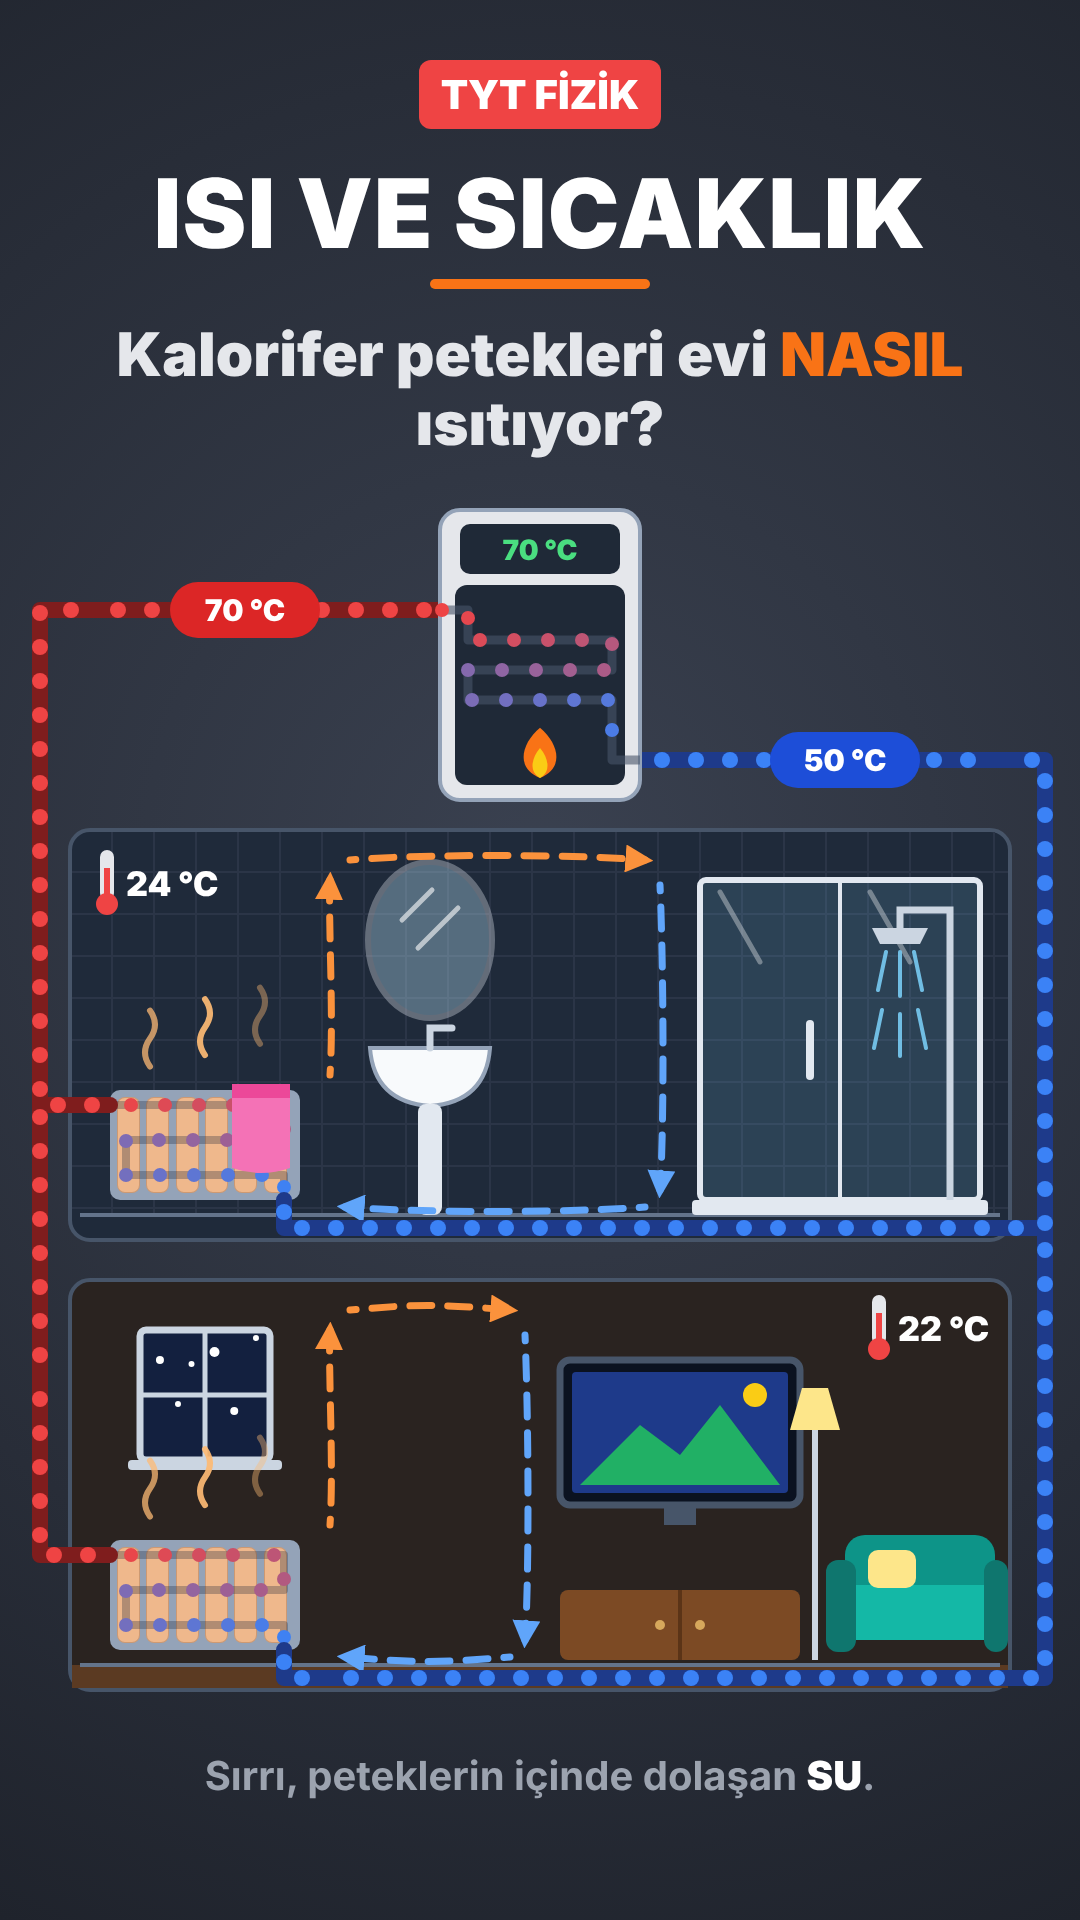
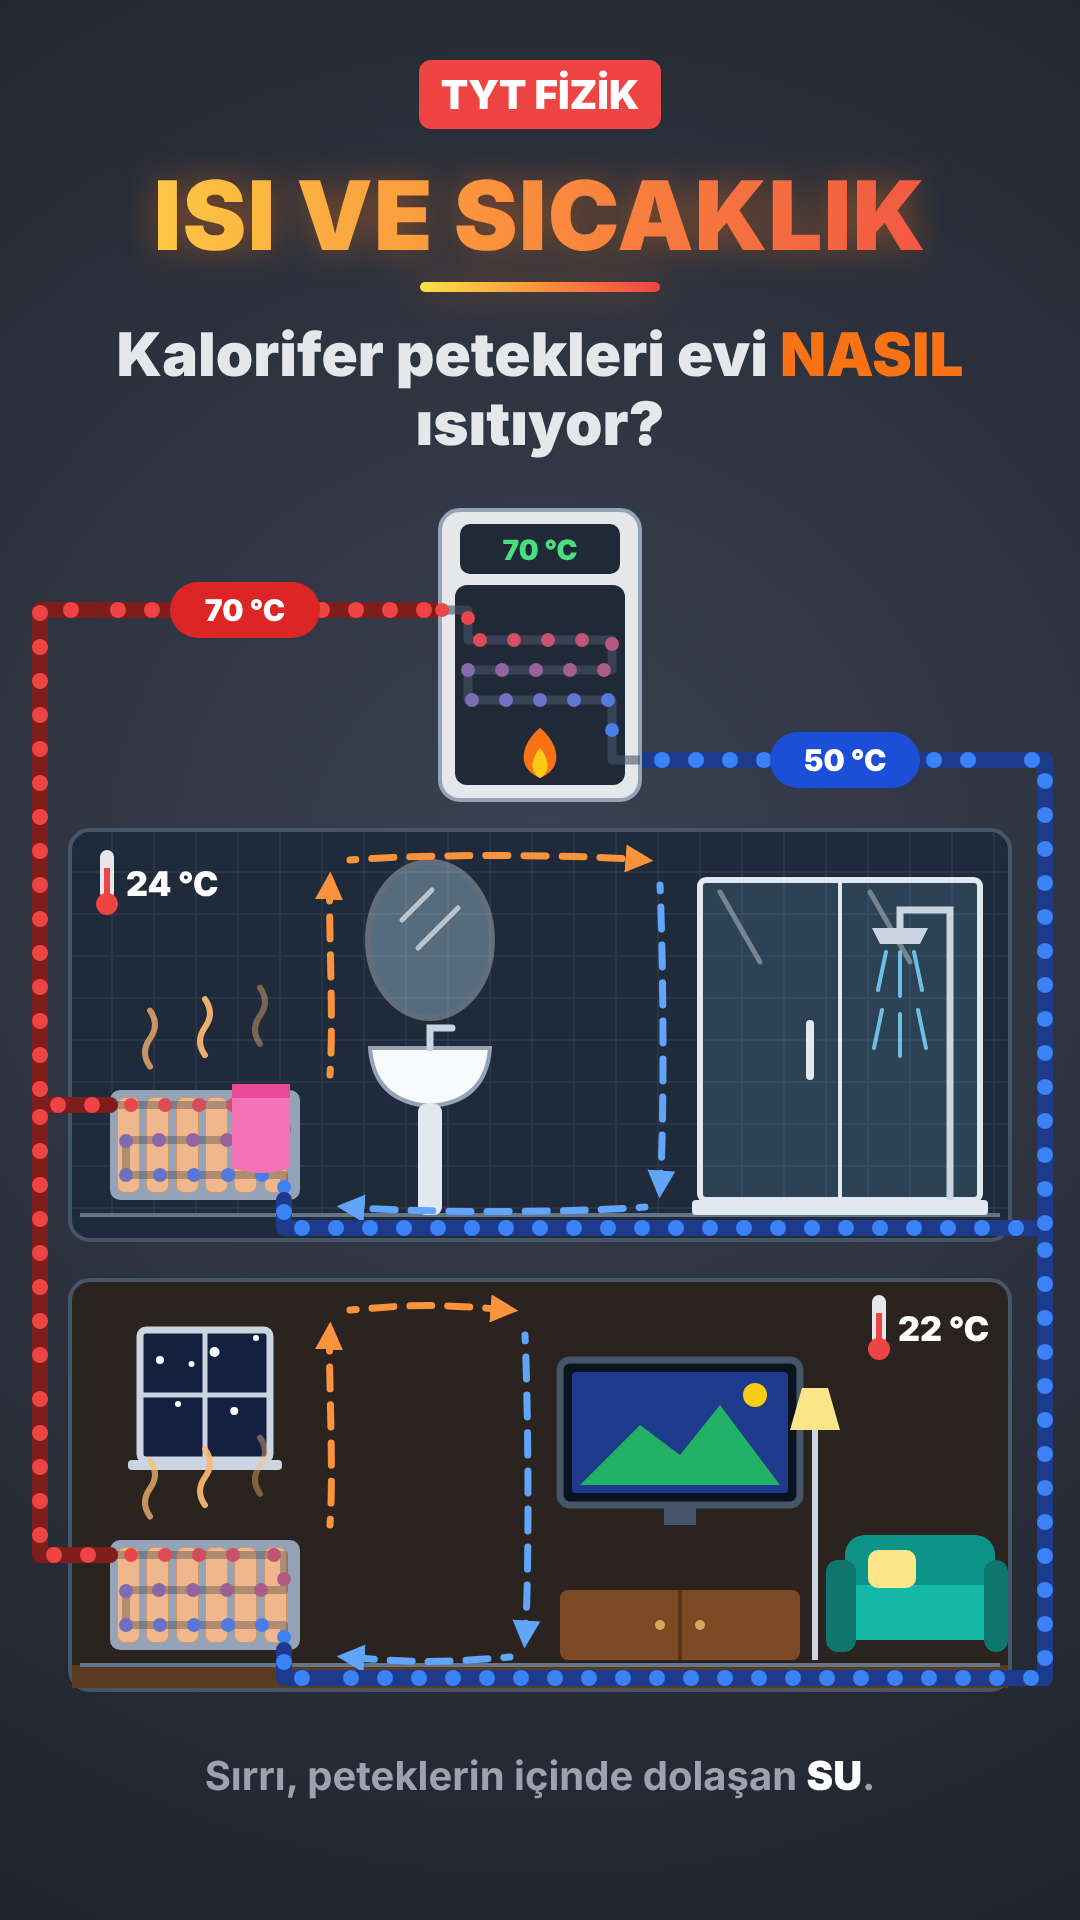
TYT Isı ve Sıcaklık: başlık sarı-turuncu-kırmızı geçişli renk
Claude-Session: https://claude.ai/code/session_01Xc7NeVxuRXWQCx2wXCgMJt

Changed region(s): [[0.1222, 0.0938, 0.8556, 0.1562]]

diff --git a/tyt/konular/isi_sicaklik.html b/tyt/konular/isi_sicaklik.html
@@ -7,8 +7,11 @@
 <link rel="stylesheet" href="../ortak.css">
 <style>
 .sicak{--sc:#fb923c}
-.hk-baslik{position:absolute;left:0;right:0;top:165px;text-align:center;font:900 96px/1 Inter;color:#fff;letter-spacing:1px}
-.hk-baslik::after{content:"";display:block;width:220px;height:10px;border-radius:5px;background:var(--orange);margin:18px auto 0}
+.hk-baslik{position:absolute;left:0;right:0;top:165px;text-align:center;font:900 96px/1.05 Inter;letter-spacing:1px;
+  background:linear-gradient(90deg,#fde047 0%,#fb923c 45%,#ef4444 100%);-webkit-background-clip:text;background-clip:text;color:transparent;
+  filter:drop-shadow(0 0 18px rgba(249,115,22,.45))}
+.hk-baslik::after{content:"";display:block;width:240px;height:10px;border-radius:5px;margin:16px auto 0;
+  background:linear-gradient(90deg,#fde047,#fb923c,#ef4444)}
 .ax{stroke:#cbd5e1;stroke-width:4;fill:none}
 .cz{stroke:#fb923c;stroke-width:8;fill:none;stroke-linejoin:round;stroke-linecap:round}
 </style>
